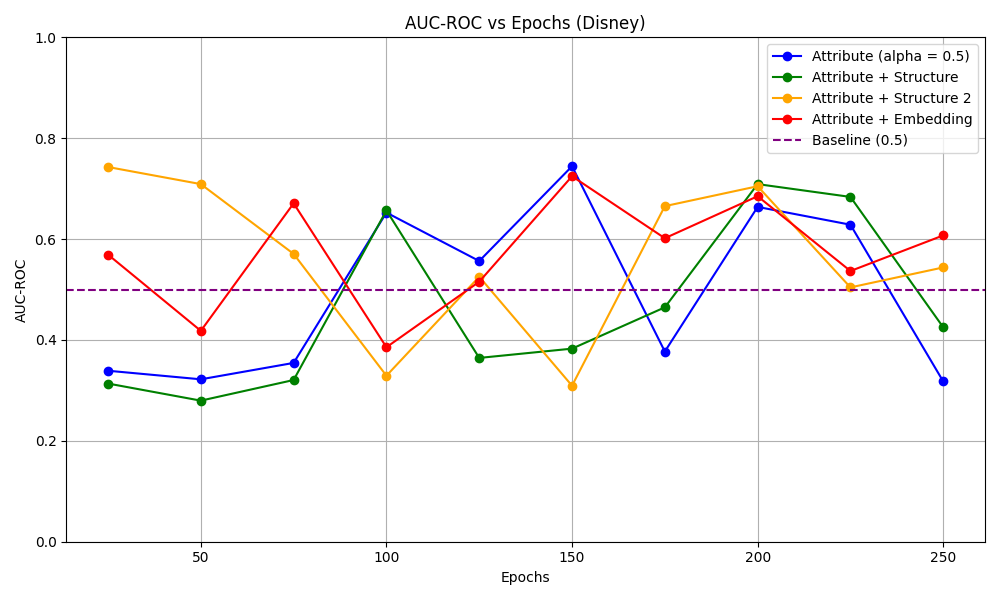
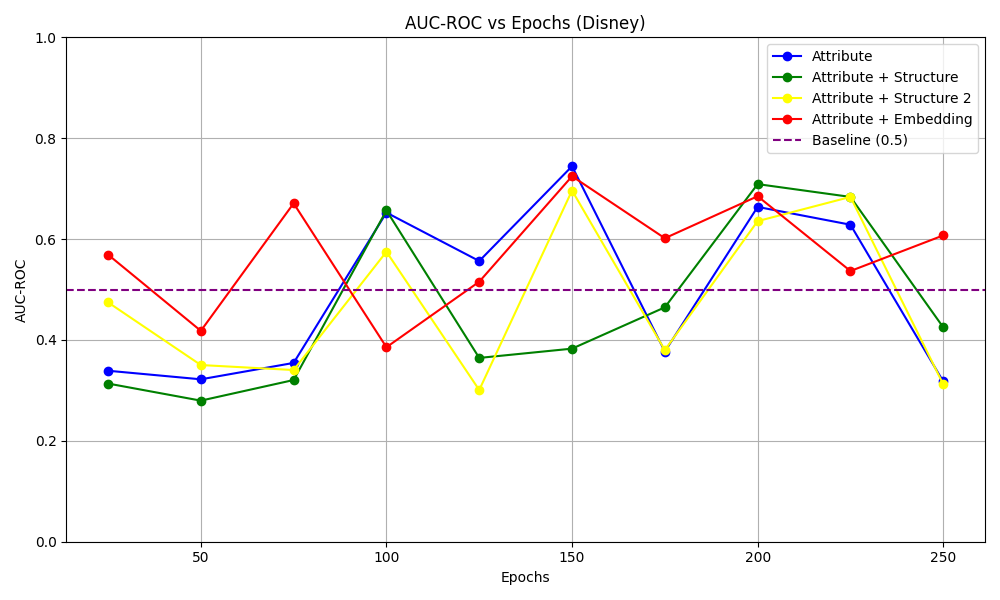
Fixed second structure model and added fixed plots images

diff --git a/src/models/unsupervised/anomalydae/structure_and_feature_model_2.py b/src/models/unsupervised/anomalydae/structure_and_feature_model_2.py
@@ -1,3 +1,4 @@
+import numpy as np
 import torch
 import networkx as nx
 from typing import List
@@ -5,8 +6,6 @@ from typing import List
 from torch_geometric.utils import from_networkx
 
 from src.models.unsupervised.base_train import base_train
-from src.scripts.sout_nodes_information import extract_node_features_tensor
-
 
 def train(
     graph: nx.Graph,
@@ -28,6 +27,38 @@ def train(
         save_emb=save_emb,
         data_set=data_set
     )
+
+def extract_node_features_tensor(graph: nx.Graph) -> torch.Tensor:
+    features = []
+    avg_neighbor_degree = nx.average_neighbor_degree(graph)
+    square_clust = nx.square_clustering(graph)
+
+    for node in graph.nodes():
+        neighbors = list(graph.neighbors(node))
+        ego = nx.ego_graph(graph, node)
+
+        degree = graph.degree(node)
+        clustering = nx.clustering(graph, node)
+        triangle_count = nx.triangles(graph, node)
+        avg_deg_of_neighbors = np.mean([graph.degree(n) for n in neighbors]) if neighbors else 0
+        ego_density = nx.density(ego)
+        square_clustering = square_clust[node]
+        num_neighbors = len(neighbors)
+
+        node_features = [
+            degree,
+            clustering,
+            triangle_count,
+            avg_neighbor_degree[node],
+            avg_deg_of_neighbors,
+            ego_density,
+            square_clustering,
+            num_neighbors,]
+        features.append(node_features)
+
+    features_tensor = torch.tensor(features, dtype=torch.float32)
+    return features_tensor
+
 def add_structure_features(graph: nx.Graph):
     print("Adding structural graphlet features to graph nodes...")
     additional_feats = extract_node_features_tensor(graph)
